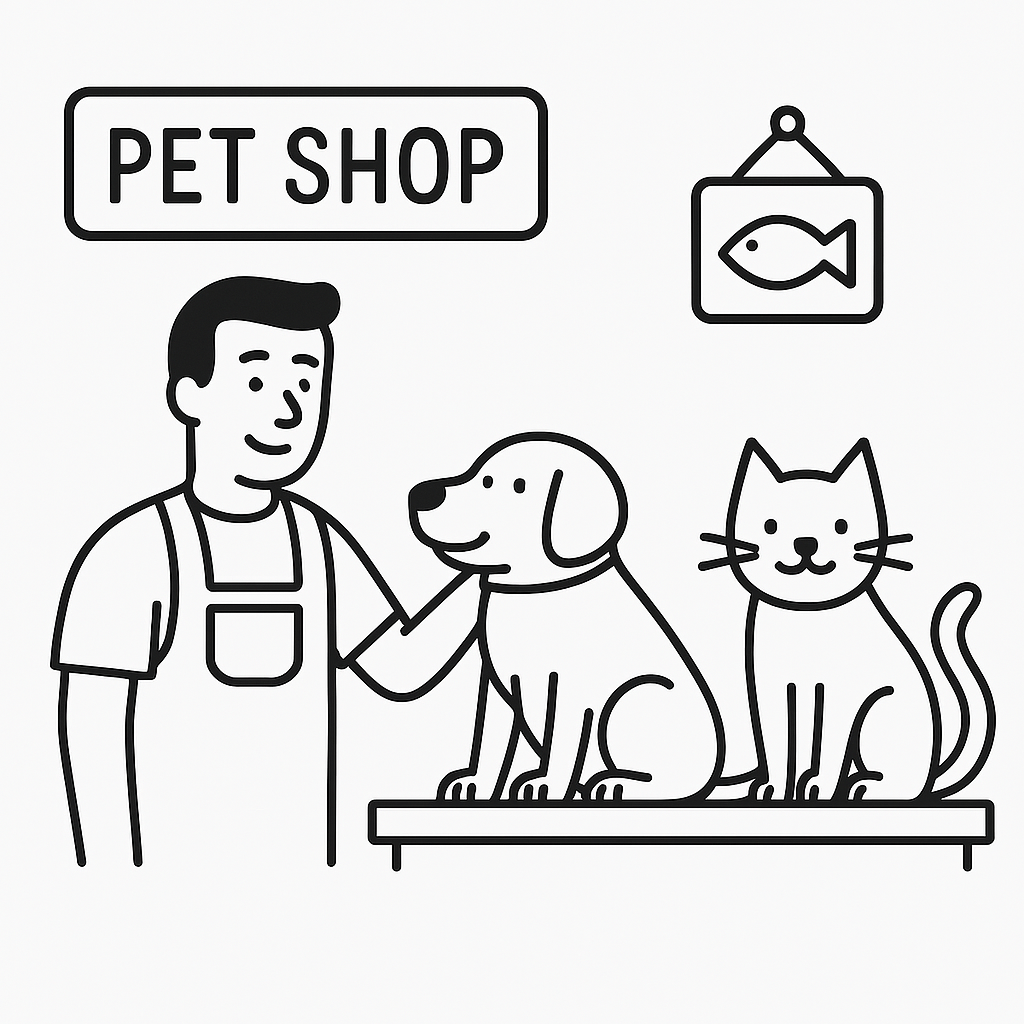
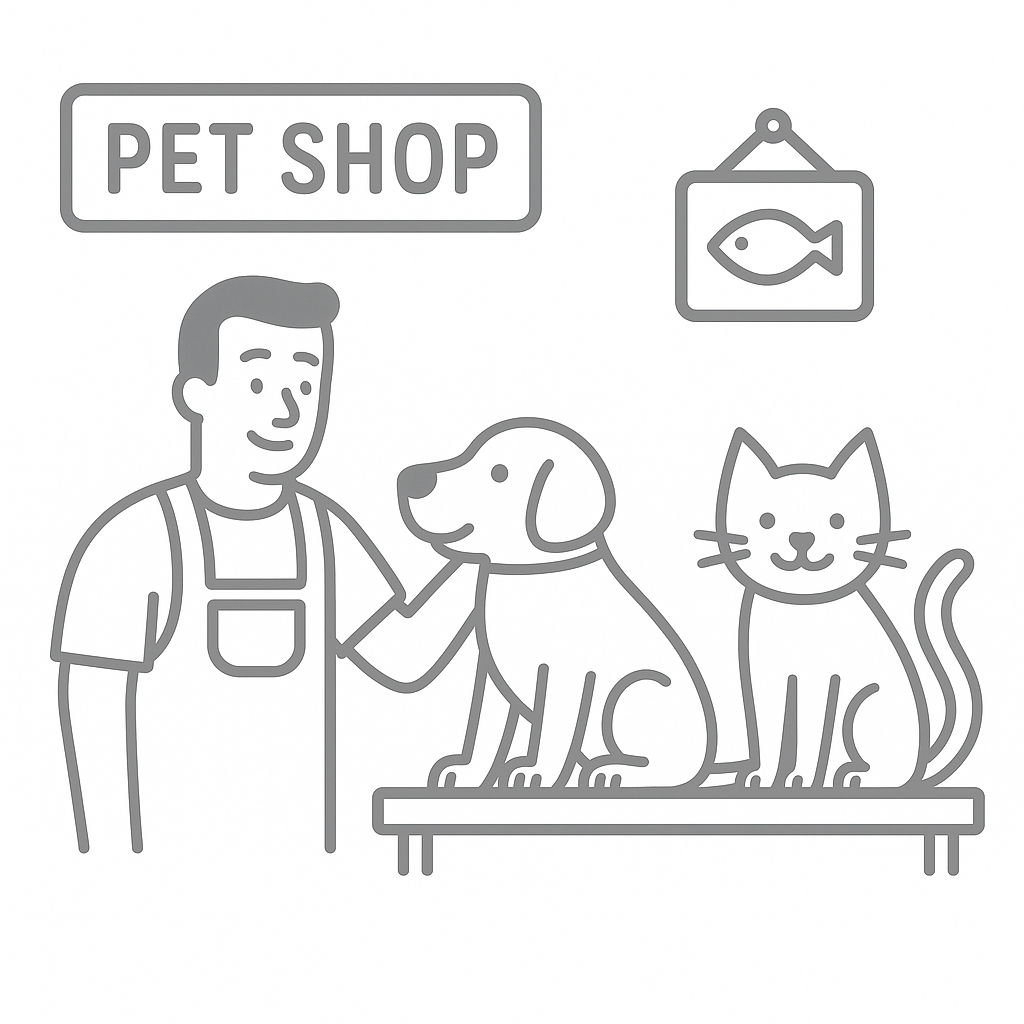
메인페이지 모델링 예제부분 수정

Changed region(s): [[0.0312, 0.0625, 1.0, 0.875], [0.6562, 0.0938, 0.875, 0.3438]]

diff --git a/src/components/listPages/AlgoliaModelLists.vue b/src/components/listPages/AlgoliaModelLists.vue
@@ -528,12 +528,14 @@
                                 >
                                     <v-card @click="openPublicModeling(mainPublicModel.url)" 
                                         class="public-model-card"
+                                        outlined
                                     >
-                                        <v-row class="ma-0 pa-2 pb-0">
-                                            <v-card-sub-title class="pa-0">{{ $t(mainPublicModel.title) }}</v-card-sub-title>
+                                        <v-row class="ma-0 pa-2 pb-0" justify="center">
+                                            <v-card-sub-title class="pa-0 text-center"
+                                            >{{ $t(mainPublicModel.title) }}</v-card-sub-title>
                                         </v-row>
                                         <div class="pa-2">
-                                            <v-card style="height: 150px; overflow: hidden; background: #F8F8F7;" outlined>
+                                            <div style="height: 150px; overflow: hidden;" outlined>
                                                 <v-img 
                                                     :src="mainPublicModel.imageUrl" 
                                                     height="100%"
@@ -541,7 +543,7 @@
                                                     contain
                                                     style="max-width: 100%; max-height: 100%; object-fit: contain;"
                                                 />
-                                            </v-card>
+                                            </div>
                                         </div>
                                     </v-card>
                                 </v-col>
@@ -2214,7 +2216,6 @@
         font-size: 20px;
         font-weight: 500;
         text-align: center;
-        color: #1E88E5;
     }
 
     .home-card-title {
